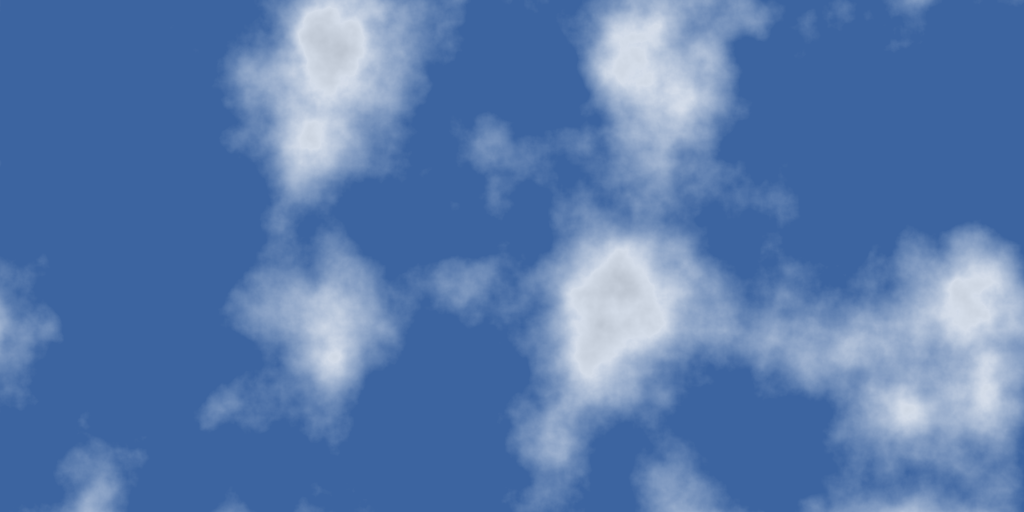
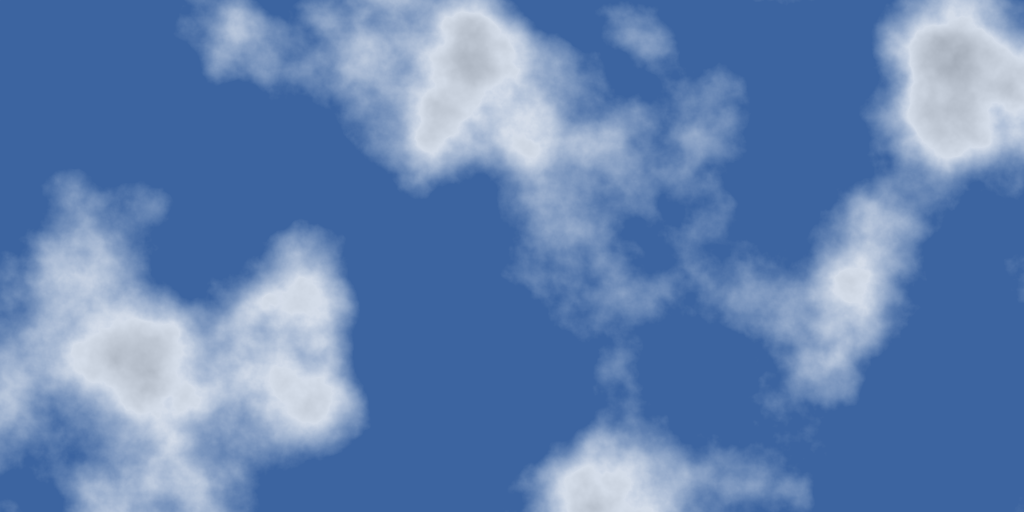
Update

diff --git a/docs/index.html b/docs/index.html
@@ -3,6 +3,6 @@
 <body>
 Today's cloud<br/>
 <img src="latest.png"/><br/>
-Latest update: Sat Jan  9 22:19:49 UTC 2021
+Latest update: Sun Jan 10 22:18:18 UTC 2021
 </body>
 </html>
